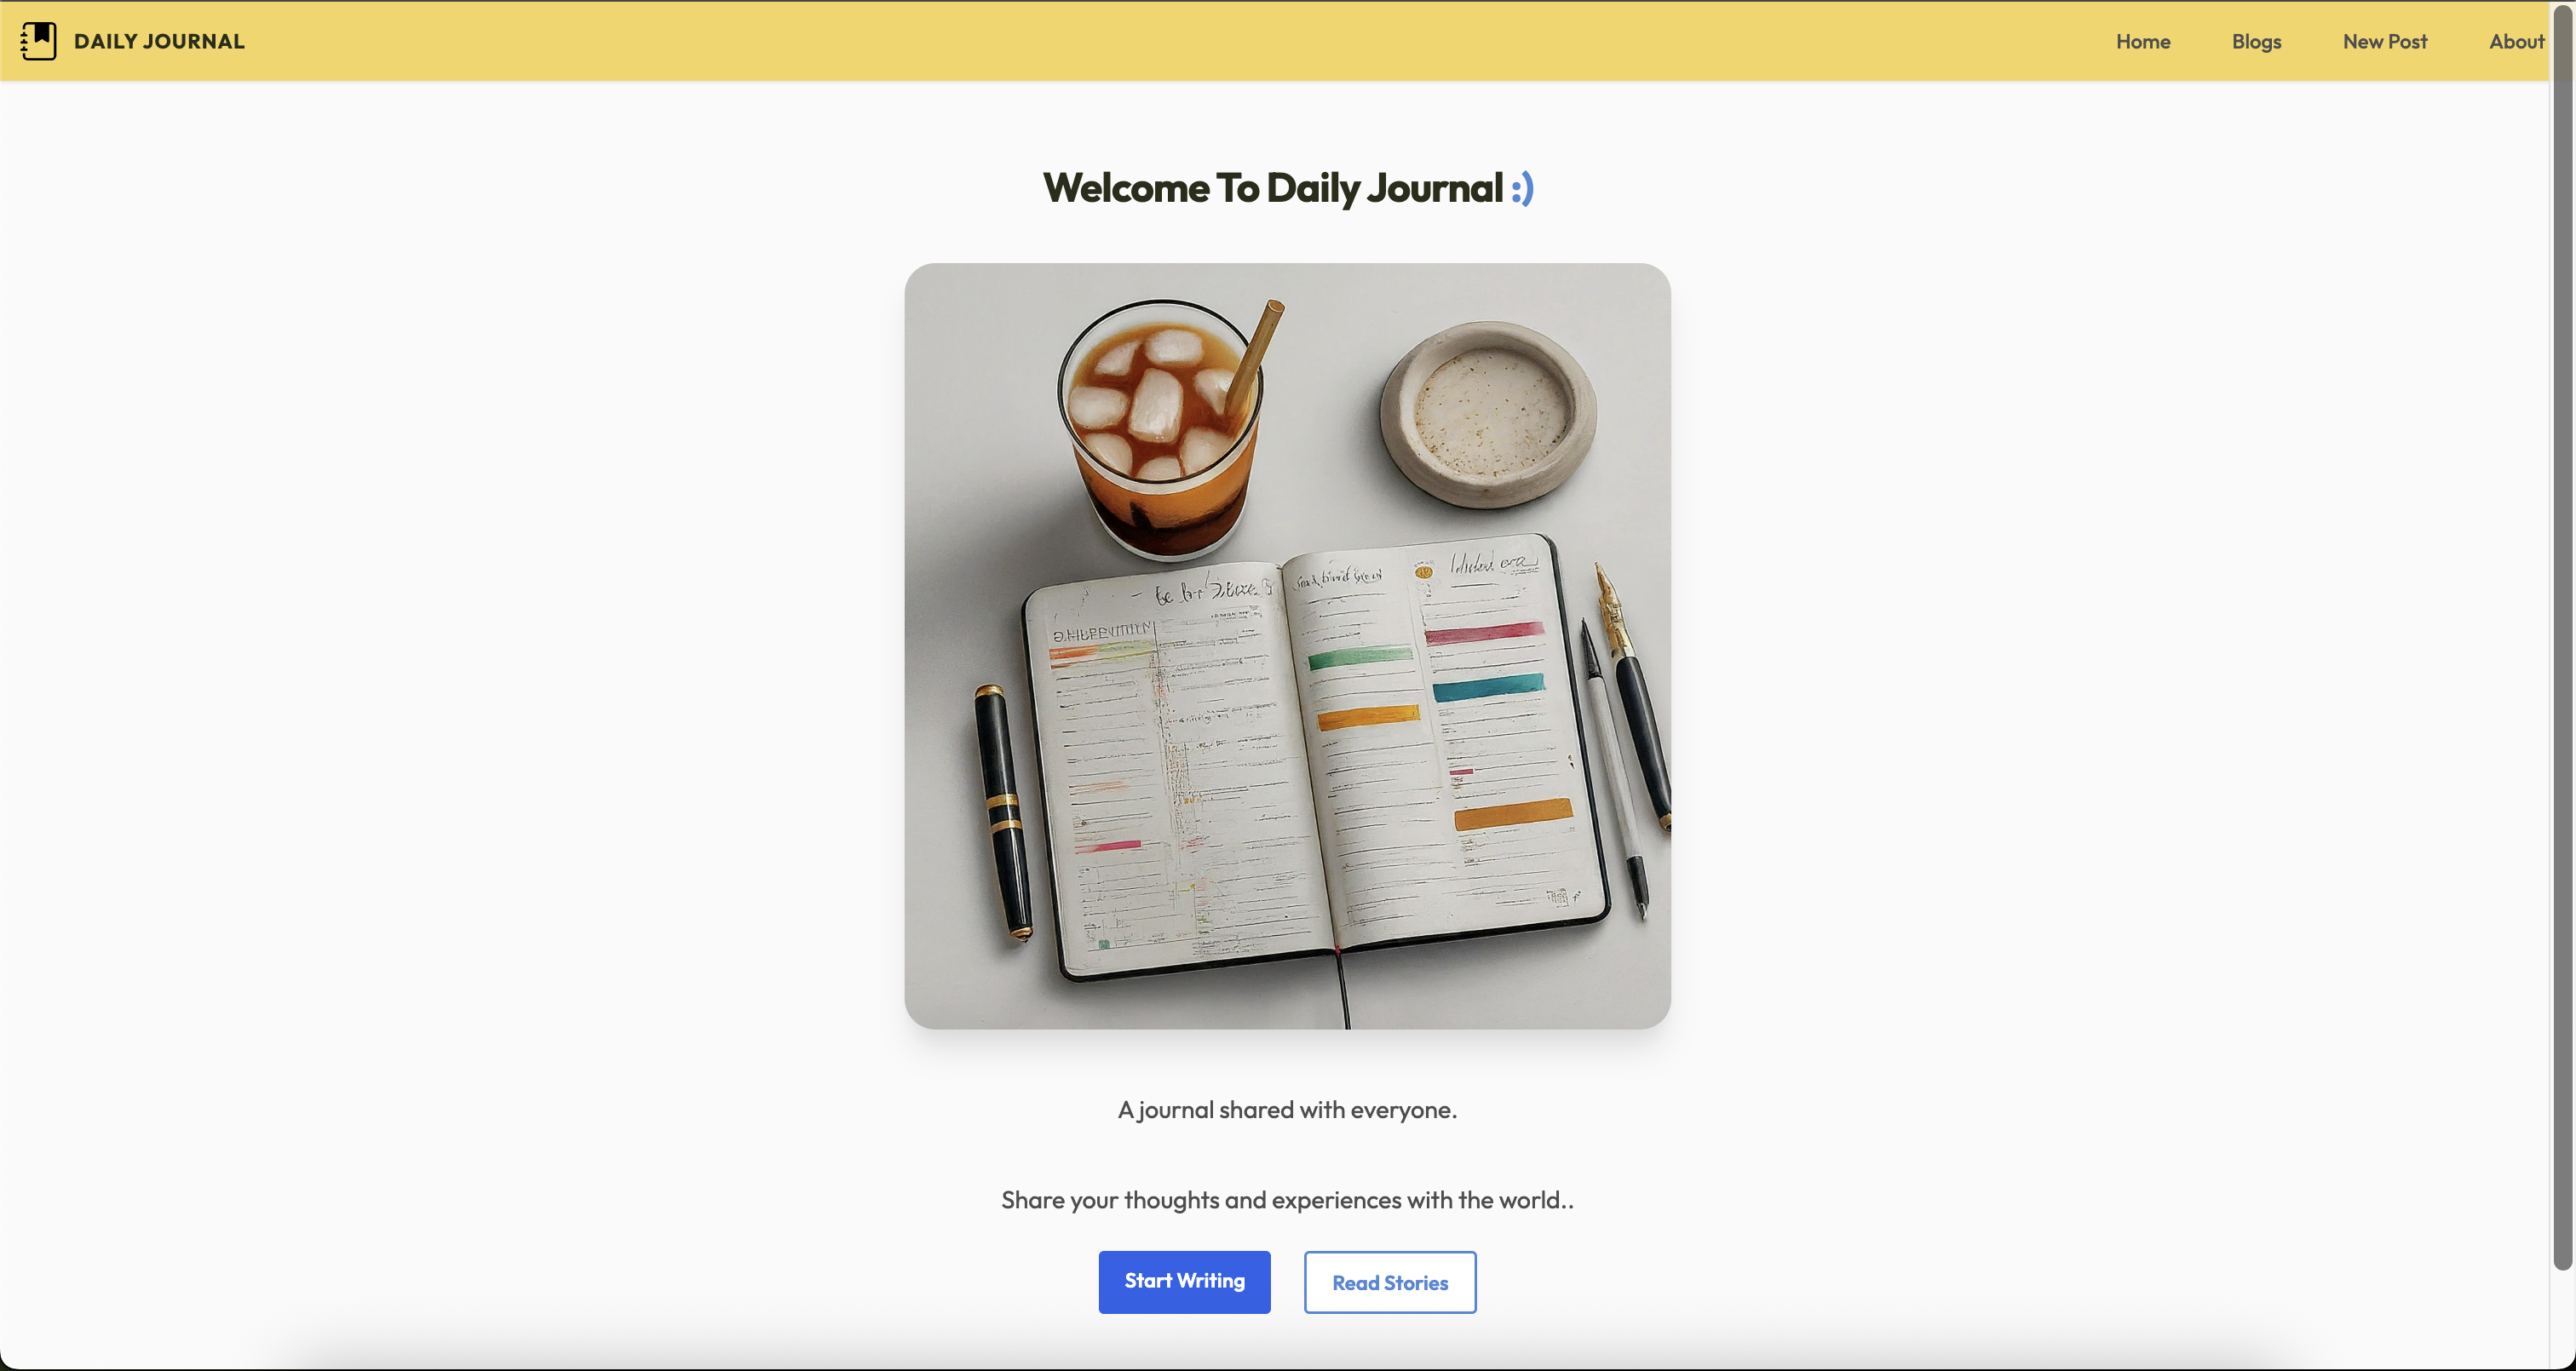
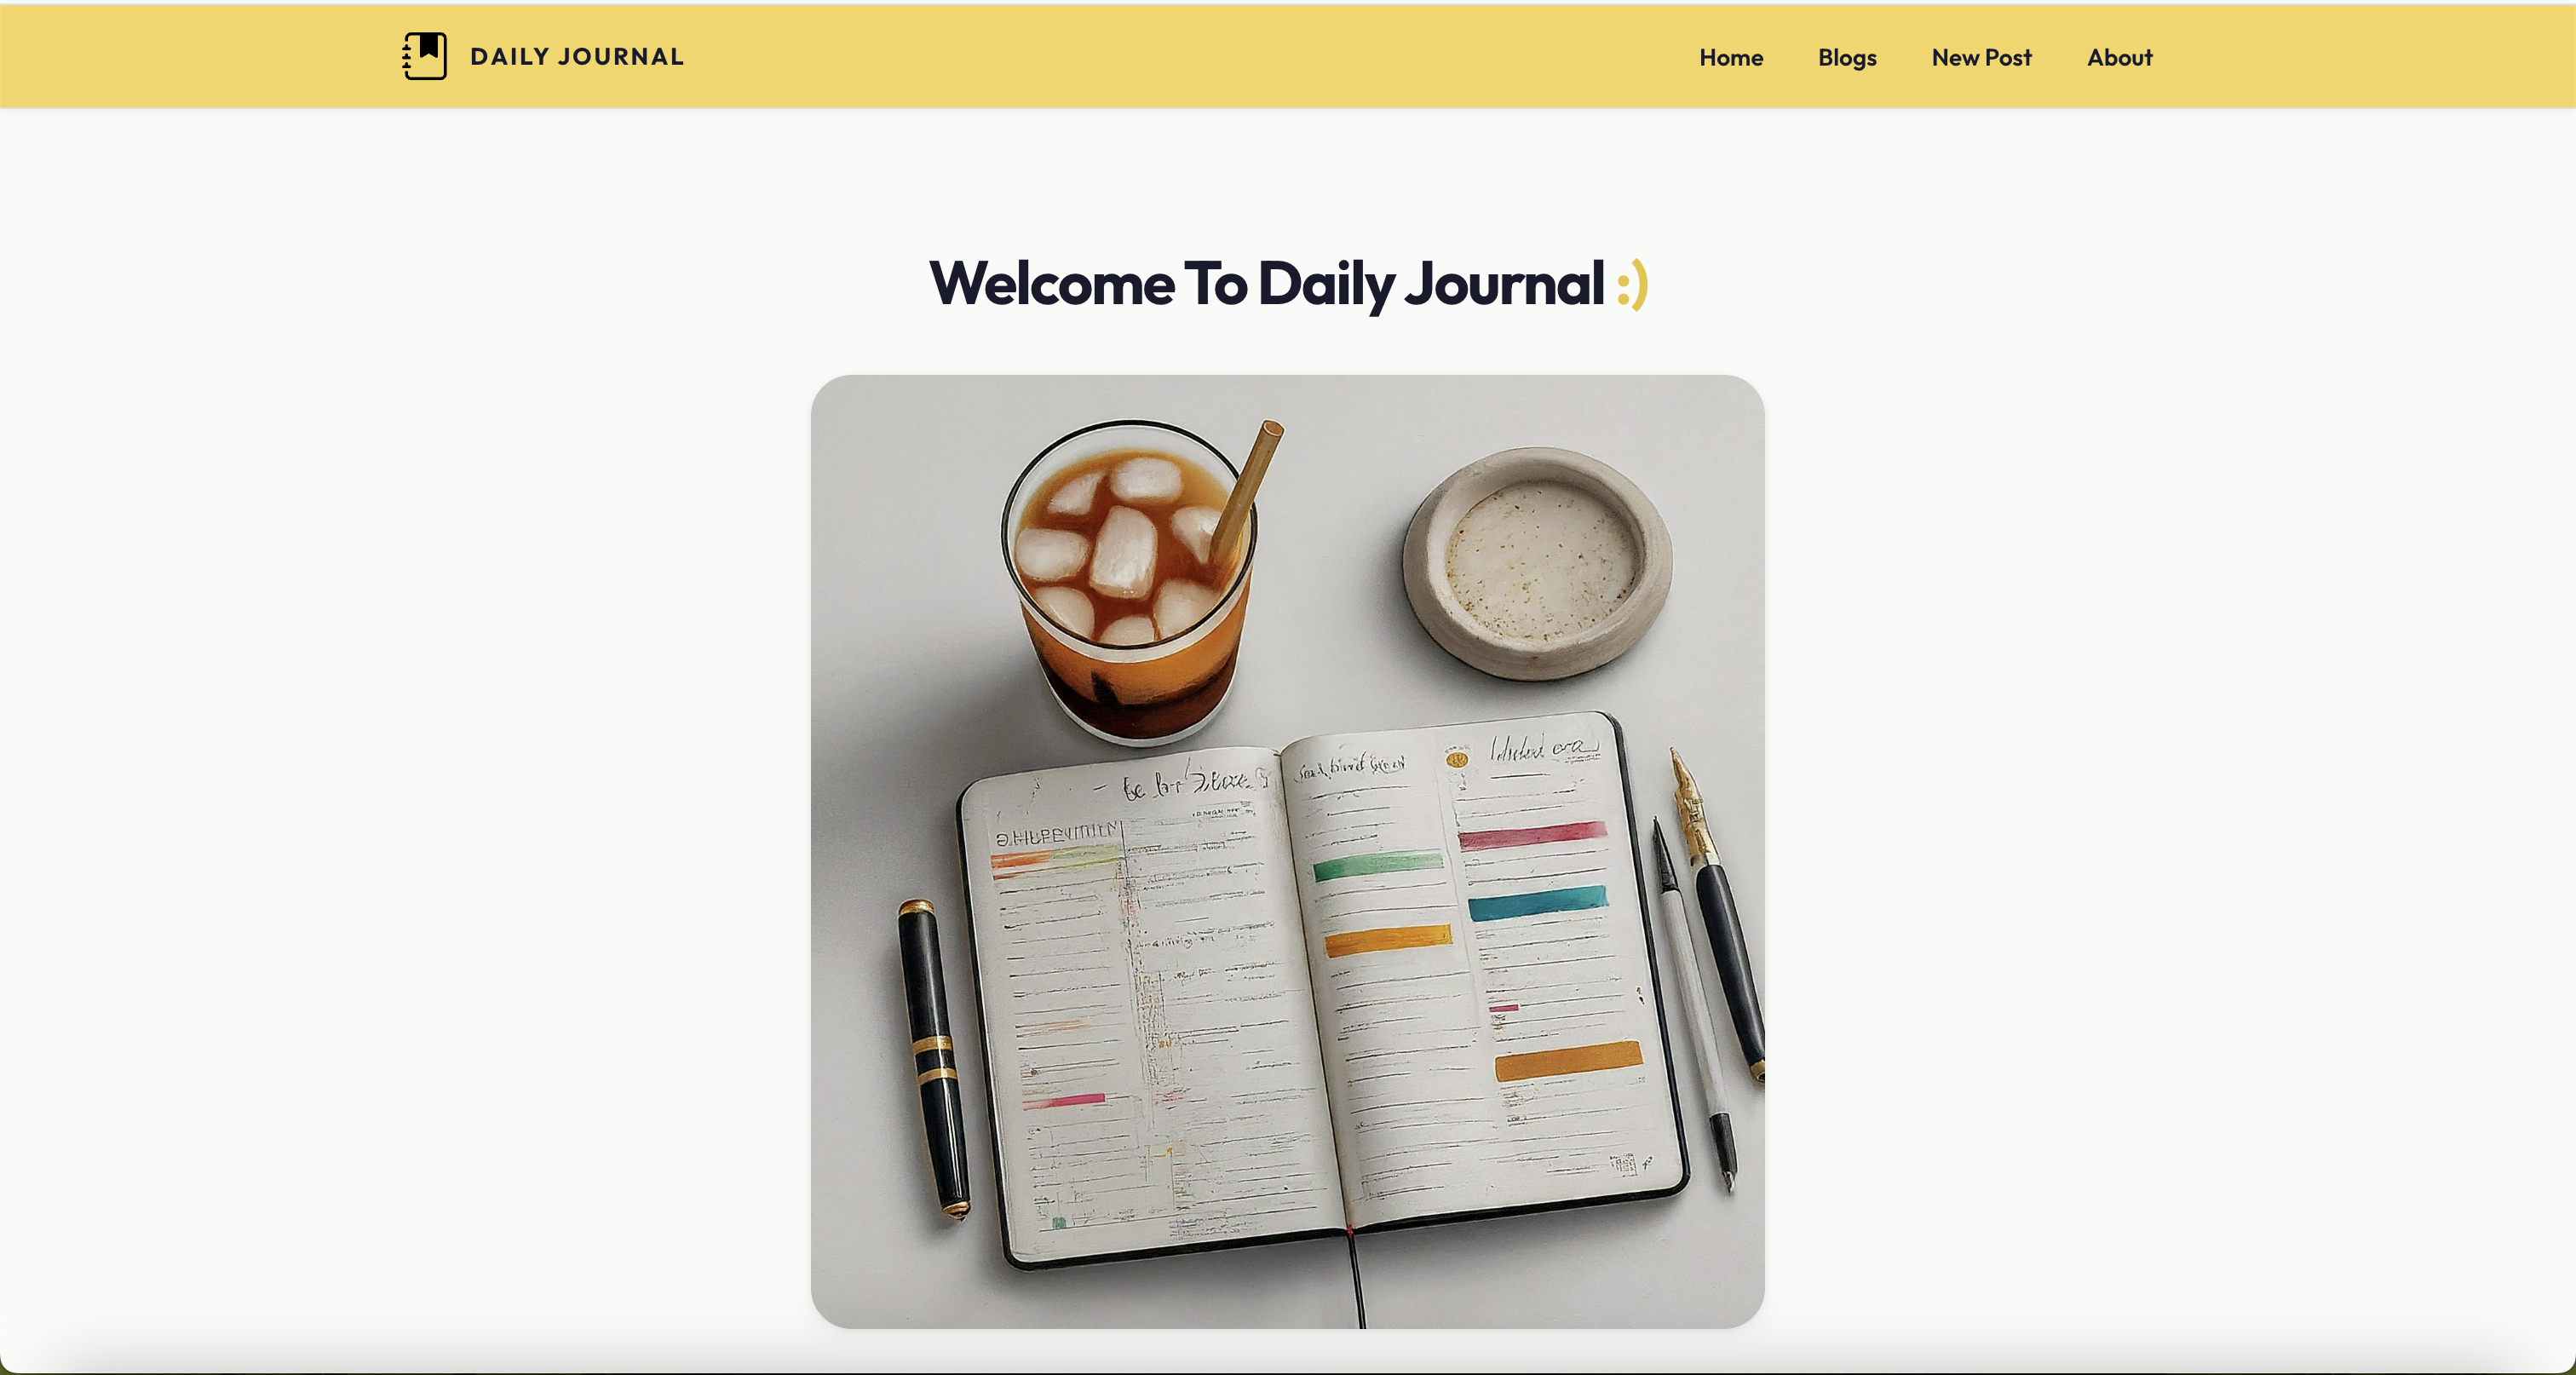
feat: add Finance Dashboard as in-progress project with GitHub link

diff --git a/src/Components/ProjectCard/ProjectCard.jsx b/src/Components/ProjectCard/ProjectCard.jsx
@@ -10,55 +10,76 @@ const ProjectCard = ({
   onDetailsClick,
   showStack = true,
   className = "",
-}) => (
-  <div className={`project-card ${className}`}>
-    <img
-      src={project.image || placeHolder}
-      alt={project.title}
-      className="project-card-image"
-      loading="lazy"
-    />
+}) => {
+  const isInProgress = project.status === "in-progress";
 
-    <div className="project-card-content">
-      <h2 className="project-card-title">{project.title}</h2>
-      <p className="project-card-description">{project.description}</p>
-
-      {showStack &&
-        Array.isArray(project.stack) &&
-        project.stack.length > 0 && (
-          <p className="project-card-stack">
-            {project.stack.slice(0, 4).join(" • ")}
-            {project.stack.length > 4 ? " • …" : ""}
-          </p>
+  return (
+    <div
+      className={`project-card ${isInProgress ? "project-card--in-progress" : ""} ${className}`}
+    >
+      <div className="project-card-image-wrapper">
+        <img
+          src={project.image || placeHolder}
+          alt={project.title}
+          className={`project-card-image ${isInProgress ? "project-card-image--dimmed" : ""}`}
+          loading="lazy"
+        />
+        {isInProgress && (
+          <span className="project-card-badge">In Progress</span>
         )}
-    </div>
+      </div>
 
-    {/* Both <button> and <a> share .project-card-button intentionally —
-        same visual style, different semantics based on context */}
-    <div className="project-card-actions">
-      {showDetailsButton && (
-        <button
-          type="button"
-          className="project-card-button"
-          onClick={() => onDetailsClick?.(project.id)}
-        >
-          Show Details
-        </button>
-      )}
+      <div className="project-card-content">
+        <h2 className="project-card-title">{project.title}</h2>
+        <p className="project-card-description">{project.description}</p>
 
-      {showLiveLink && project.liveSiteUrl && (
-        <a
-          href={project.liveSiteUrl}
-          target="_blank"
-          rel="noopener noreferrer"
-          className="project-card-button"
-        >
-          Live Site
-        </a>
-      )}
+        {showStack &&
+          Array.isArray(project.stack) &&
+          project.stack.length > 0 && (
+            <p className="project-card-stack">
+              {project.stack.slice(0, 4).join(" • ")}
+              {project.stack.length > 4 ? " • …" : ""}
+            </p>
+          )}
+      </div>
+
+      {/* Both <button> and <a> share .project-card-button intentionally —
+            same visual style, different semantics based on context */}
+      <div className="project-card-actions">
+        {showDetailsButton && (
+          <button
+            type="button"
+            className="project-card-button"
+            onClick={() => onDetailsClick?.(project.id)}
+          >
+            Show Details
+          </button>
+        )}
+
+        {showLiveLink && !isInProgress && project.liveSiteUrl && (
+          <a
+            href={project.liveSiteUrl}
+            target="_blank"
+            rel="noopener noreferrer"
+            className="project-card-button"
+          >
+            Live Site
+          </a>
+        )}
+        {project.githubUrl && (
+          <a
+            href={project.githubUrl}
+            target="_blank"
+            rel="noopener noreferrer"
+            className="project-card-button project-card-button--ghost"
+          >
+            GitHub
+          </a>
+        )}
+      </div>
     </div>
-  </div>
-);
+  );
+};
 
 ProjectCard.propTypes = {
   project: PropTypes.shape({
@@ -67,6 +88,8 @@ ProjectCard.propTypes = {
     description: PropTypes.string.isRequired,
     image: PropTypes.string,
     liveSiteUrl: PropTypes.string,
+    githubUrl: PropTypes.string,
+    status: PropTypes.string,
     stack: PropTypes.arrayOf(PropTypes.string),
     featured: PropTypes.bool,
     category: PropTypes.oneOf(["featured", "experiment"]),

diff --git a/src/Components/ProjectCard/ProjectCard.css b/src/Components/ProjectCard/ProjectCard.css
@@ -30,6 +30,43 @@
   margin: 0;
 }
 
+.project-card-image-wrapper {
+  position: relative;
+}
+
+.project-card-image--dimmed {
+  opacity: 0.45;
+}
+
+.project-card-badge {
+  position: absolute;
+  top: 12px;
+  left: 12px;
+  background-color: #4f46e5;
+  color: #fff;
+  font-size: 0.7rem;
+  font-weight: 600;
+  letter-spacing: 0.05em;
+  text-transform: uppercase;
+  padding: 4px 10px;
+  border-radius: 4px;
+  pointer-events: none;
+}
+
+.project-card--in-progress {
+  opacity: 0.85;
+}
+
+.project-card-button--ghost {
+  background: transparent;
+  border: 1px solid currentColor;
+  opacity: 0.75;
+}
+
+.project-card-button--ghost:hover {
+  opacity: 1;
+}
+
 .project-card-content {
   display: flex;
   flex-direction: column;

diff --git a/src/assets/data/projectsData/projectsData.js b/src/assets/data/projectsData/projectsData.js
@@ -3,6 +3,7 @@ import project_two from "@/assets/images/project_two.png";
 import project_three from "@/assets/images/project_three.png";
 import project_four from "@/assets/images/project_four.png";
 import project_five from "@/assets/images/project_five.png";
+import project_six from "@/assets/images/project_six.png";
 
 export const projectsData = [
   {
@@ -74,5 +75,28 @@ export const projectsData = [
       "Built with vanilla JavaScript. Players guess a randomly generated number between 1 and 30, receiving feedback if their guess is too high or too low. Tracks current score and highscore across sessions, supports keyboard input via Enter key, and includes smooth animations.",
     featured: false,
     category: "experiment",
+  },
+  {
+    id: 6,
+    title: "Personal Finance Dashboard",
+    description:
+      "A data-heavy React + TypeScript app for tracking transactions, visualizing spending trends, and managing budgets — built with TanStack Query, Zod, and Recharts.",
+    image: project_six,
+    liveSiteUrl: "",
+    githubUrl: "https://github.com/Alzubi-Omar/finance-dashboard",
+    type: "Finance Tool",
+    status: "in-progress",
+    stack: [
+      "React",
+      "TypeScript",
+      "TanStack Query",
+      "Recharts",
+      "Zod",
+      "Tailwind CSS",
+    ],
+    extendedDescription:
+      "Built with React 18 and TypeScript using Vite. Features full transaction CRUD with React Hook Form and Zod validation, TanStack Query for data management, and Recharts for spending analytics. Demonstrates modern frontend patterns including custom hooks, typed schemas, and component composition.",
+    featured: true,
+    category: "featured",
   },
 ];